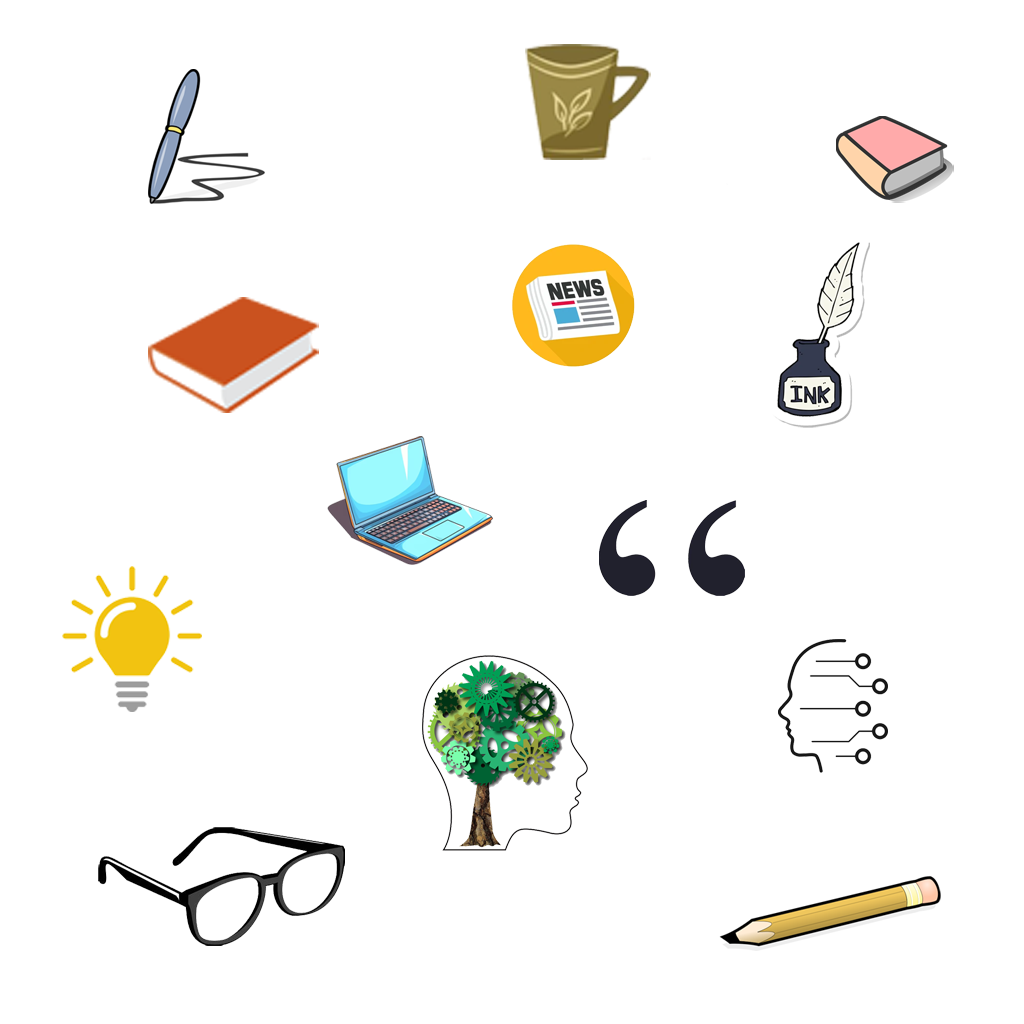
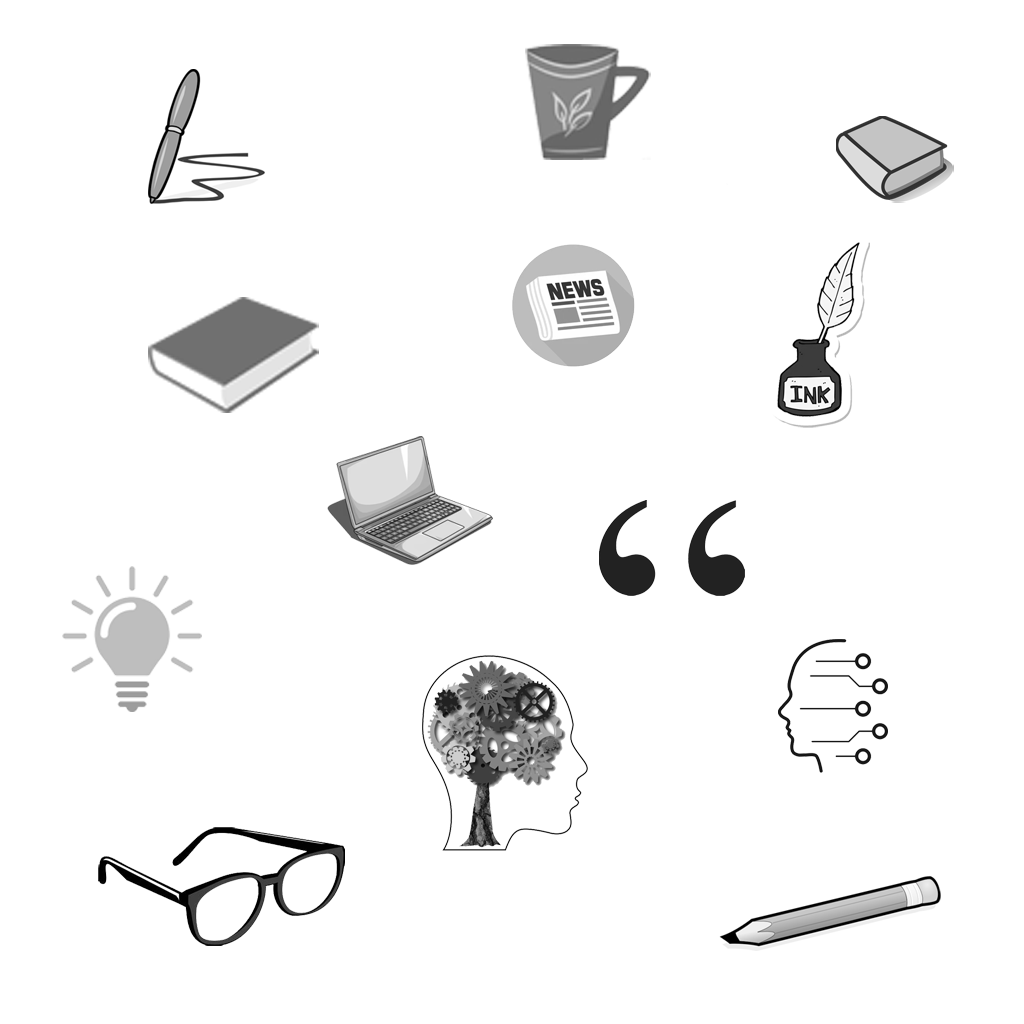
black and white bg

diff --git a/React Final Project/client/src/App.module.css b/React Final Project/client/src/App.module.css
@@ -11,70 +11,48 @@ main{
     height: 100%;
 }
 button{
-    /*font-family: "Russo One", serif !important;*/
-
-    /*font-family: "Shantell Sans", serif !important;*/
-
-    /*font-family: "Cuprum", serif !important;*/
-
-    /*font-family: "Istok Web", serif !important;*/
-
     font-family: "Oswald", serif !important;
-
-    /*font-family: "Sawarabi Gothic", serif !important;*/
-    /*font-family: "Unbounded", serif !important;*/
-    /*font-family: "Advent Pro", serif !important;*/
-    /*font-family: "Yanone Kaffeesatz", serif !important;*/
 }
 h1{
-    /*font-family: "Shantell Sans", serif !important;*/
-    /*font-family: "Cuprum", serif !important;*/
-    /*font-family: "Istok Web", serif !important;*/
-    /*font-family: "Sawarabi Gothic", serif !important;*/
-    /*font-family: "Unbounded", serif !important;*/
-    /*font-family: "Advent Pro", serif !important;*/
-
-    /*font-family: "Yanone Kaffeesatz", serif !important;*/
+    font-size: 50px !important;
     font-family: "Oswald", serif !important;
-
-    /*font-weight: 300;*/
+    margin: 0 !important;
 }
-h2{
-    /*font-family: "Shantell Sans", serif !important;*/
-    /*font-family: "Cuprum", serif !important;*/
+h3{
+    font-size: 45px !important;
+    font-family: "Oswald", serif !important;
+    margin: 0 !important;
+}
+h4{
+    font-size: 40px !important;
+    font-family: "Oswald", serif !important;
+    margin: 0 !important;
+}
+h5{
+    font-size: 25px !important;
+    font-family: "Oswald", serif !important;
+    margin: 0 !important;
+}
+h6{
+    font-size: 18px !important;
+    font-family: "Oswald", serif !important;
+    margin: 0 !important;
+}
 
+
+
+
+
+
+
+h2{
     font-family: "Istok Web", serif !important;
     font-size: 40px!important;
-
-    /*font-family: "Sawarabi Gothic", serif !important;*/
-    /*font-family: "Unbounded", serif !important;*/
-    /*font-family: "Advent Pro", serif !important;*/
-    /*font-family: "Yanone Kaffeesatz", serif !important;*/
-    /*font-family: "Oswald", serif !important;*/
-
+    margin: 0 !important;
 }
 p{
-    /*font-family: Calibri, serif !important;*/
-    /*font-family: "Russo One", serif !important;*/
-    /*font-family: "Shantell Sans", serif !important;*/
-
-
-
-
     font-family: "Istok Web", serif !important;
-    /*font-family: "Cuprum", serif !important;*/
     font-weight: 100 !important;
-
-
-
-
-    /*font-family: "Istok Web", serif !important;*/
-    /*font-weight: 500;*/
-    /*font-family: "Sawarabi Gothic", serif !important;*/
-    /*font-family: "Unbounded", serif !important;*/
-    /*font-family: "Advent Pro", serif !important;*/
-    /*font-family: "Yanone Kaffeesatz", serif !important;*/
-    /*font-family: "Oswald", serif !important;*/
 }
 
 a{

diff --git a/React Final Project/client/src/components/TranslationContainer/TranslationContainer.module.css b/React Final Project/client/src/components/TranslationContainer/TranslationContainer.module.css
@@ -2,7 +2,20 @@
 /**{*/
 /*    font-family: Inter;*/
 /*}*/
+
+.overlay{
+    display: none;
+    position: fixed;
+    top: 0;
+    left: 0;
+    width: 100%;
+    height: 100%;
+    background-color: black;
+    opacity: 0.3;
+}
 .container{
+    display: flex;
+    flex-direction: column;
     padding: 20px;
     width: 300px;
     border: solid 1px black;
@@ -10,14 +23,6 @@
     border-radius: 20px;
     background-color: #EBEBEB;
 
-}
-@media (max-width:1200px){
-    .container{
-        position: fixed;
-        top: 50%;
-        left: 50%;
-        transform: translate(-50%, -50%);
-    }
 }
 .textForTranslate{
     padding: 15px;
@@ -51,4 +56,28 @@
     padding: 15px;
     border-radius: 20px;
     background-color: white;
+}
+.xmark{
+    width: fit-content;
+    padding: 10px;
+    border-radius: 100px;
+    transition: 0.3s;
+    align-self: flex-end;
+}
+.xmark:hover{
+    background-color: black;
+    color: white;
+    cursor: pointer;
+}
+@media (max-width:1200px){
+    .container{
+        position: fixed;
+        top: 50%;
+        left: 50%;
+        transform: translate(-50%, -50%);
+        z-index: 999999;
+    }
+    .visible + .overlay{
+        display: block;
+    }
 }

diff --git a/React Final Project/client/src/components/TranslationContainer/TranslationContainer.tsx b/React Final Project/client/src/components/TranslationContainer/TranslationContainer.tsx
@@ -85,7 +85,7 @@ export default function TranslationContainer() {
     // @ts-ignore
     return (
         <>
-            {textToTranslate&&<div className={styles.container}>
+            {textToTranslate&&<div className={ `${styles.container} ${textToTranslate?styles.visible:null}` }>
                 <i  onClick={()=>closeTextToTranslatePanel()} className={`fa-solid fa-xmark ${styles.xmark}`}></i>
                 <h3>Избери думите, които са ти непознати:</h3>
                 <p className={styles.textForTranslate} ref={wordsContainerRef}>
@@ -118,6 +118,7 @@ export default function TranslationContainer() {
                 <h3>Превод:</h3>
                 <p className={styles.translation}>{translatedSentence}</p>
             </div>}
+            <div className={styles.overlay}></div>
         </>
 
 

diff --git a/React Final Project/client/src/components/AddtionalInfo/AddtionalInfo.module.css b/React Final Project/client/src/components/AddtionalInfo/AddtionalInfo.module.css
@@ -47,6 +47,7 @@
     justify-content: center;
     align-items: center;
     font-weight: bolder;
+    text-align: center;
     padding: 0 100px    ;
     font-size: clamp(30px,3.2vw,60px);
     font-family: "Shantell Sans", serif;
